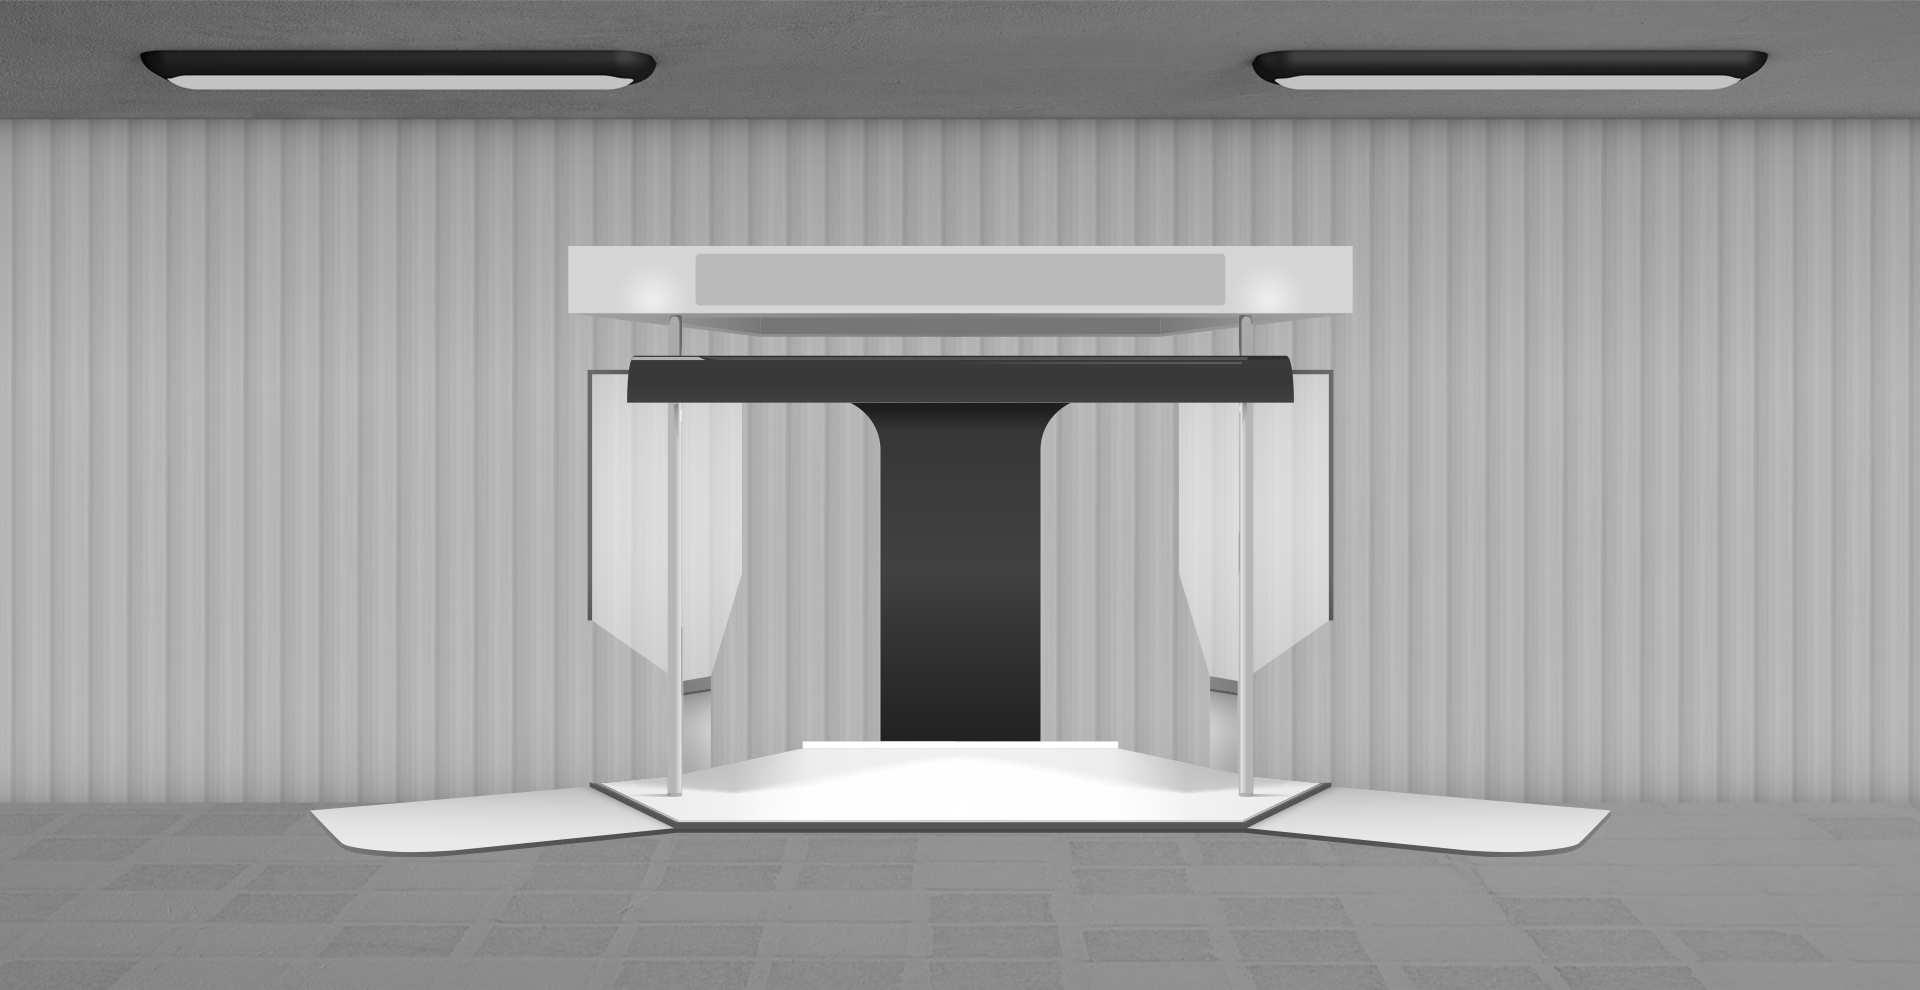
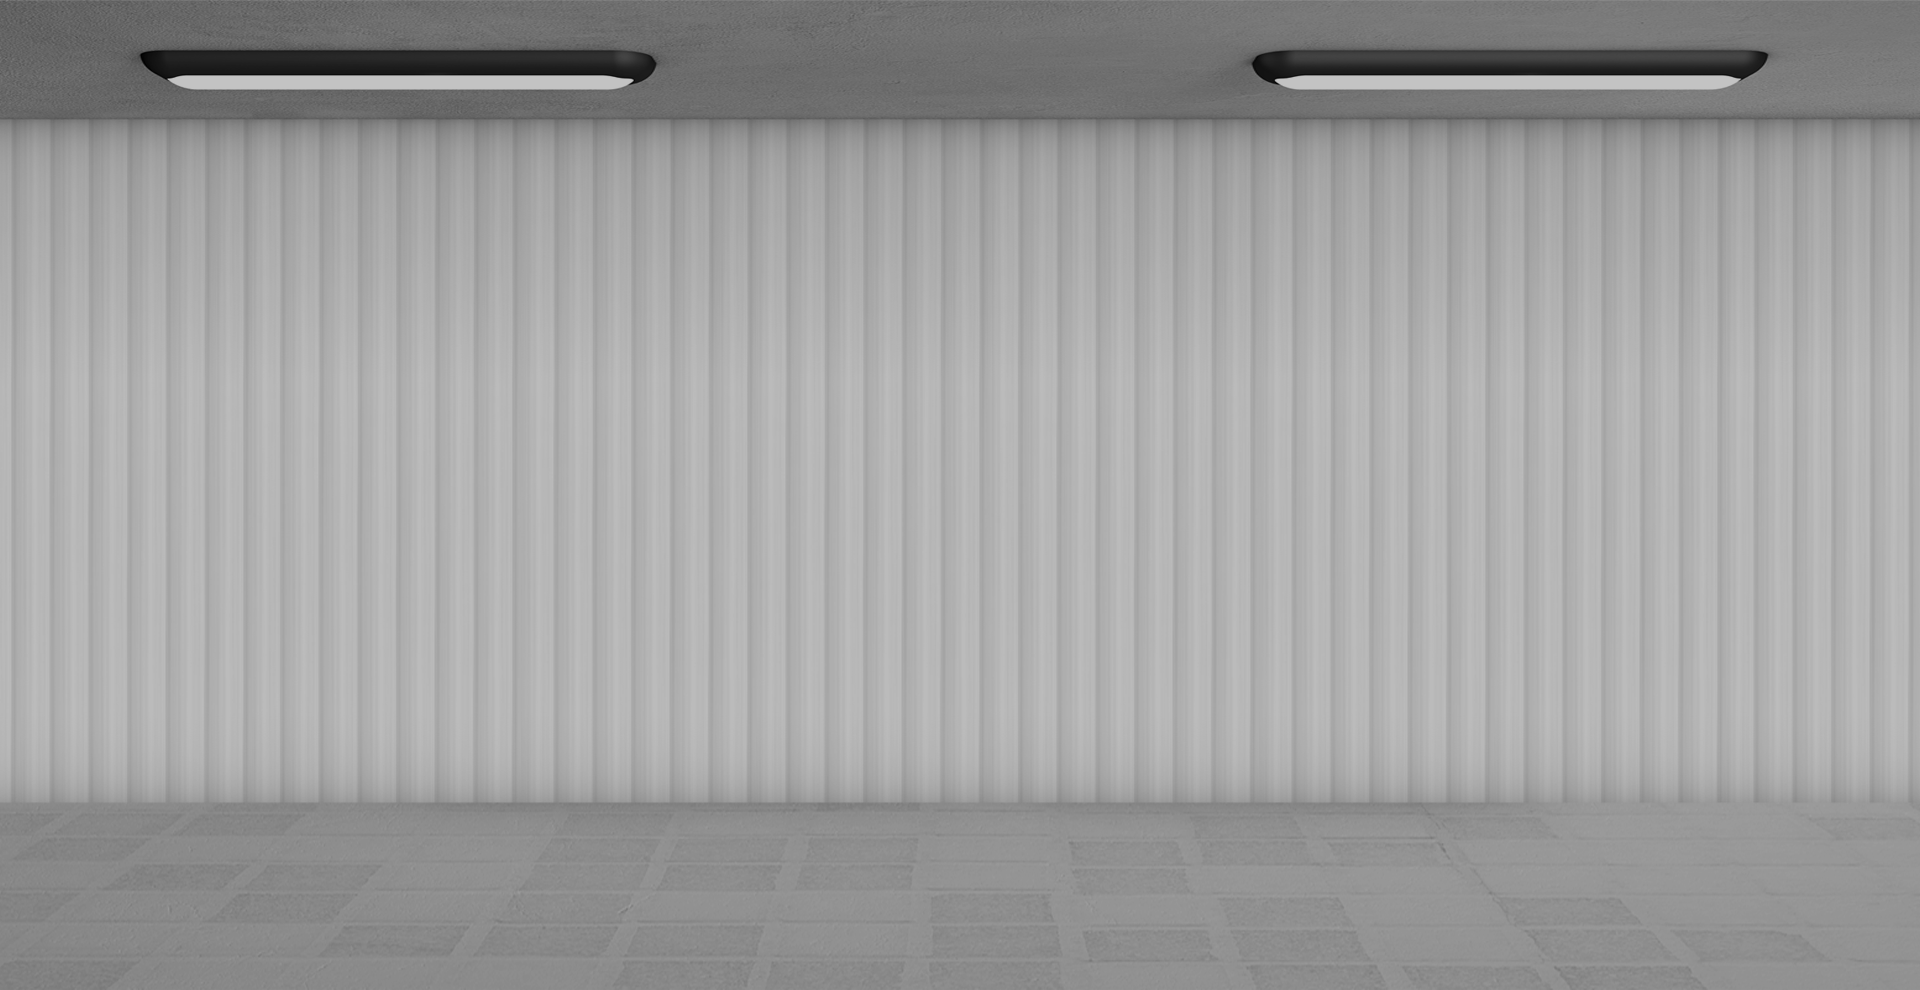
ebooth sdp 배경이미지와 모달 수정

Changed region(s): [[0.1562, 0.2424, 0.8438, 0.8788]]

diff --git a/gics2021/css/ebooth.css b/gics2021/css/ebooth.css
@@ -3,26 +3,35 @@
 
 .main .inner {
     position: relative;
-    min-width: 1920px;
     height: 90vh;
     margin: 0 auto;
     background: url('/gics2021/data/img/ebooth/bg.png') left top no-repeat;
     background-size: 100% 100%;
     overflow: hidden;
+    text-align: center;
 }
-
+/* 
 .objects{
+  position: absolute;
+  left: 50%;
+  bottom: 18%;
+  transform:translate(-50%, 0%);
+  width: 100%;
+}; */
+
+.center{
   position: absolute;
   left: 50%;
   bottom: 10%;
   transform:translate(-50%, 0%);
 
-  max-width: 1100px;
+  display: inline-block;
+  z-index: 1;
+  width: 95vw;
+  max-width: 115vh;
+}
+.center img{
   width: 100%;
-};
-
-.center{
-  position: relative;
 }
 
 #center_top{
@@ -31,7 +40,7 @@
   left: 50%;
   bottom: 25%;
   transform:translate(-50%, 0%);
-  z-index: 1;
+  z-index: 2;
 }
 
 #center_bottom{
@@ -39,7 +48,7 @@
   left: 50%;
   bottom: 15%;
   transform:translate(-50%, 0%);
-  z-index: 2;
+  z-index: 3;
 }
 
 .left_side{
@@ -53,38 +62,74 @@
 }
 
 /*=== buttom ===*/
-.bottom_button{
+/* .bottom_button{
   position: absolute;
   left: 50%;
-  bottom: 5%;
-  
-  place-items: center;
+  bottom: 2%;
+  display: inline-block;
   color: #43425d;
   transform:translate(-50%, 0%);
 }
 
 .multi-button {
-  border: 5px solid #43425d;
+  border: 3px solid #43425d;
+  width: 60vw;
   display: grid;
   grid-template-columns: auto auto auto auto;
 }
-.multi-button button {
-  border: 5px solid #43425d;
+  .multi-button button {
   background-color: white;
-  border: none;
-  margin: 0;
-  padding: 1em 2em;
+  padding: 1.5vh 1.6vw;
   font-weight: bold;
-  outline: none;
-  font-size: 1.5em;
+  font-size: 1vw;
   color: #43425d;
-  width: 300px;
 }
 
 .multi-button button:hover{
   cursor: pointer;
   transition: 0.2s ease-in-out;
   background-color: rgb(211, 211, 15);
+}
+
+
+.active {
+  background-color: #43425d !important;
+  color: whitesmoke !important;
+} */
+
+
+.bottom_button{
+  position: absolute;
+  left: 50%;
+  bottom: 2%;
+  display: inline-block;
+  color: #43425d;
+  transform:translate(-50%, 0%);
+}
+
+.multi-button {
+  border: 3px solid #43425d;
+  display: grid;
+  width: 60vw;
+  grid-template-columns: auto auto auto auto;
+}
+
+.multi-button div {
+  background-color: white;
+  font-weight: bold;
+  font-size: 1vw;
+  color: #43425d;
+}
+
+
+.multi-button div:hover{
+  cursor: pointer;
+  transition: 0.2s ease-in-out;
+  background-color: rgb(207, 207, 24);
+}
+.multi-button a{
+  padding: 1.5vh;
+  display: block;
 }
 
 

diff --git a/gics2021/ebooth/sdp_pc.html b/gics2021/ebooth/sdp_pc.html
@@ -46,28 +46,26 @@
   <div class="main">
     <div class="inner">
 
-      <div class="objects">
-        <div class="left_side">
-          <img src="/gics2021/data/img/ebooth/side_left.png">
-        </div>
-
-        <div class="center">
-          <img id="center_top" src="/gics2021/data/img/ebooth/mid_top.png">
-          <img id="center_bottom" src="/gics2021/data/img/ebooth/mid_bottom.png">
-        </div>
-
-        <div class="right_side">
-          <img src="/gics2021/data/img/ebooth/side_right.png">
-        </div>
-
+      <div class="center">
+        <img src="/gics2021/data/img/ebooth/sdp_booth.png">
       </div>
+<!-- 
+      <div class="bottom_button">
+        <div class="multi-button">
+          <div class="active"><a class="btn" id="tab2-0-btn" href="#">Live Room</a></div>
+          <div><a class="btn" id="tab2-1-btn" href="#">Lecture Room 1</a></div>
+          <div><a class="btn" id="tab2-2-btn" href="#">Lecture Room 2</a></div>
+          <div><a class="btn" id="tab2-3-btn" href="#">Lecture Room 3</a></div>
+          <div><a class="btn" id="tab2-4-btn" href="#">Satellite Symposium</a></div>
+        </div>
+      </div> -->
 
       <div class="bottom_button">
         <div class="multi-button">
-          <a class="btn" id="tab2-1-btn" href="#brochures-modal"><button class="active">COMPANY</button></a>
-          <a class="btn" id="tab2-2-btn" href="#brochures-modal"><button>BROCHURES</button></a>
-          <a class="btn" id="tab2-3-btn" href="#brochures-modal"><button>VIDEO</button></a>
-          <a class="btn" id="tab2-4-btn" href="#brochures-modal"><button>STAMP EVENT</button></a>
+          <div class="active"><a class="button" id="tab2-1-btn" href="#brochures-modal">COMPANY</a></div>
+          <div><a class="button" id="tab2-2-btn" href="#brochures-modal">BROCHURES</a></div>
+          <div><a class="button" id="tab2-3-btn" href="#brochures-modal">VIDEO</a></div>
+          <div><a class="button" id="tab2-4-btn" href="#brochures-modal">STAMP EVENT</a></div>
         </div>
       </div>
 
@@ -107,6 +105,7 @@
         </div>
 
       </div>
+
       <div class="tab-2">
         <div class="modal-title"><label for="tab2-2">BROCURES</label></div>
         <input id="tab2-2" name="tabs-two" type="radio">

diff --git a/gics2021/js/ebooth.js b/gics2021/js/ebooth.js
@@ -1,17 +1,33 @@
 // https://codepen.io/summin/pen/NWpaegG
 
 $(document).ready(function () {
-  $('.multi-button').on('click', 'a', function () {   
-    console.log(window.scrollY)
-    $(this.children).addClass('active');
-    $(this).siblings().find('button').removeClass('active');
 
-    tabid = this.id.split('-').slice(0,2).join('-');
+  $('.multi-button').on('click', 'div', function () {
+    $(this).addClass('active');
+    $(this).siblings().removeClass('active');
+
+    tabid = this.firstChild.id.split('-').slice(0,2).join('-');
+    console.log(tabid)
     document.getElementById(tabid).checked = true;
 
-    // $("body").addClass("not_scroll");
+    // let label = $(`label[for=${tabid}]`);
+    // $(`label[for=${tabid}]`).css({"background-color": "#d2deec"});
+    // $(`label[for=${tabid}]`).css({"color": "114577"});
+
+
   });
+
+  // $('.multi-button').on('click', 'a', function () {   
+  //   console.log(window.scrollY)
+  //   $(this.children).addClass('active');
+  //   $(this).siblings().find('button').removeClass('active');
+
+  //   tabid = this.id.split('-').slice(0,2).join('-');
+  //   document.getElementById(tabid).checked = true;
+
+  // });
   
+
   $("#close_btn").click(function(){
     // $("body").removeClass("not_scroll");
   });
@@ -20,9 +36,15 @@ $(document).ready(function () {
     btnid = this.id + "-btn"
     active_btn = document.getElementById(btnid);
 
+    $('.modal-title').css({"background-color": "#114577"});
+    $('.modal-title label').css({"color":"#fff"});
+    $(this).prev().css({"background-color": "#d2deec"});
+    $(this).prev().children('label').css({"color":"#114577"});
+
     sel = '#'+btnid
-    $(sel).find('button').toggleClass("active")
-    $(sel).siblings().find('button').removeClass('active');
+    $('.button').parent().removeClass('active');
+    $(sel).parent().toggleClass("active")
+    // $(sel).parent().siblings().firstChild.removeClass('active');
   })
 
 });

diff --git a/gics2021/css/modal.css b/gics2021/css/modal.css
@@ -2,7 +2,7 @@ body  *::-webkit-scrollbar {
   width: 10px;
 }
 body  *::-webkit-scrollbar-thumb {
-  background-color: rgb(59, 59, 224);;
+  background-color: #114577;
   border-radius: 10px;
   background-clip: padding-box;
   border: 2px solid transparent;
@@ -30,7 +30,7 @@ body  *::-webkit-scrollbar-track {
   cursor: pointer;
   display: block;
   font-size: 1.1em;
-  font-weight: 300;
+  font-weight: 700;
   line-height: 1em;
   padding: 2rem 0;
   text-align: center;
